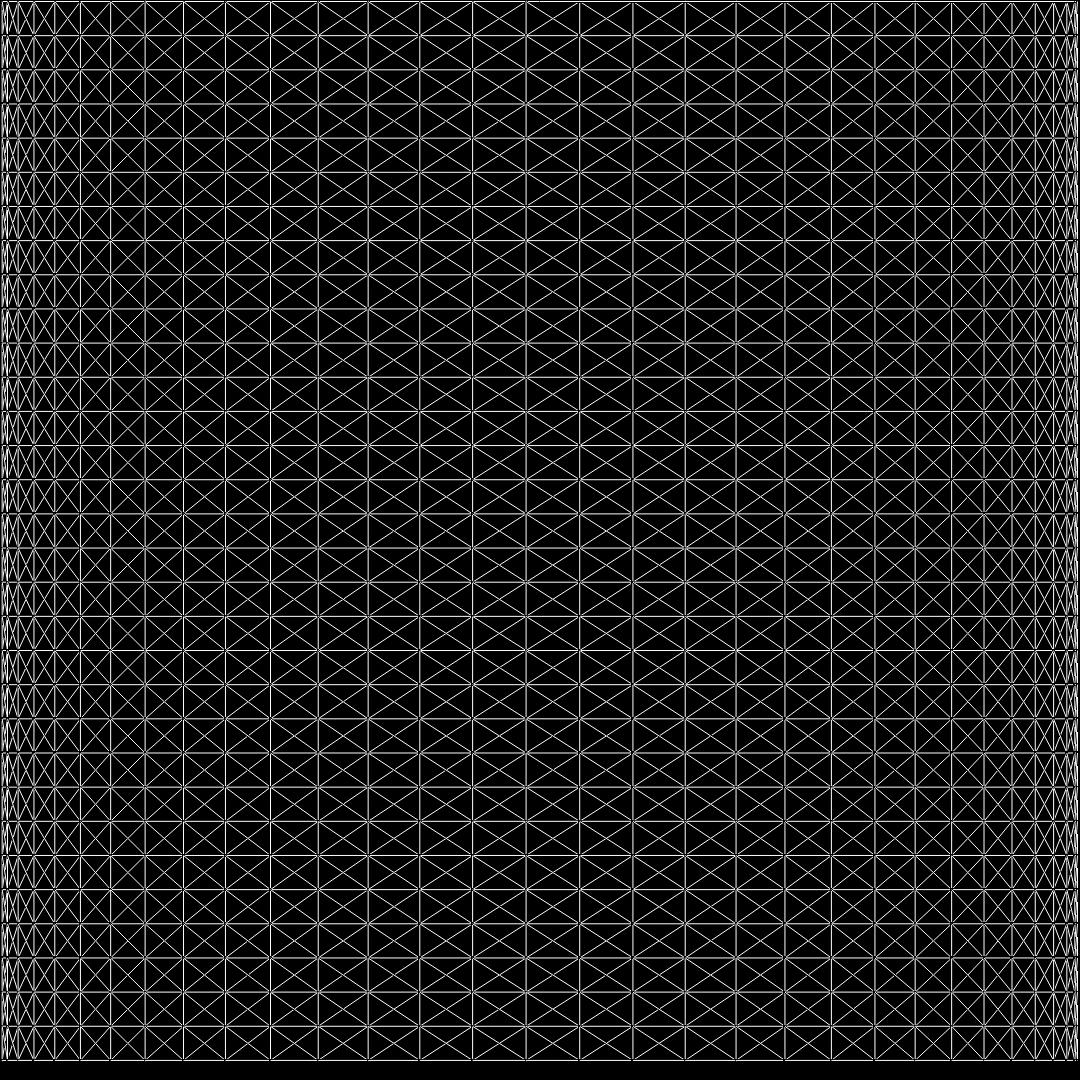
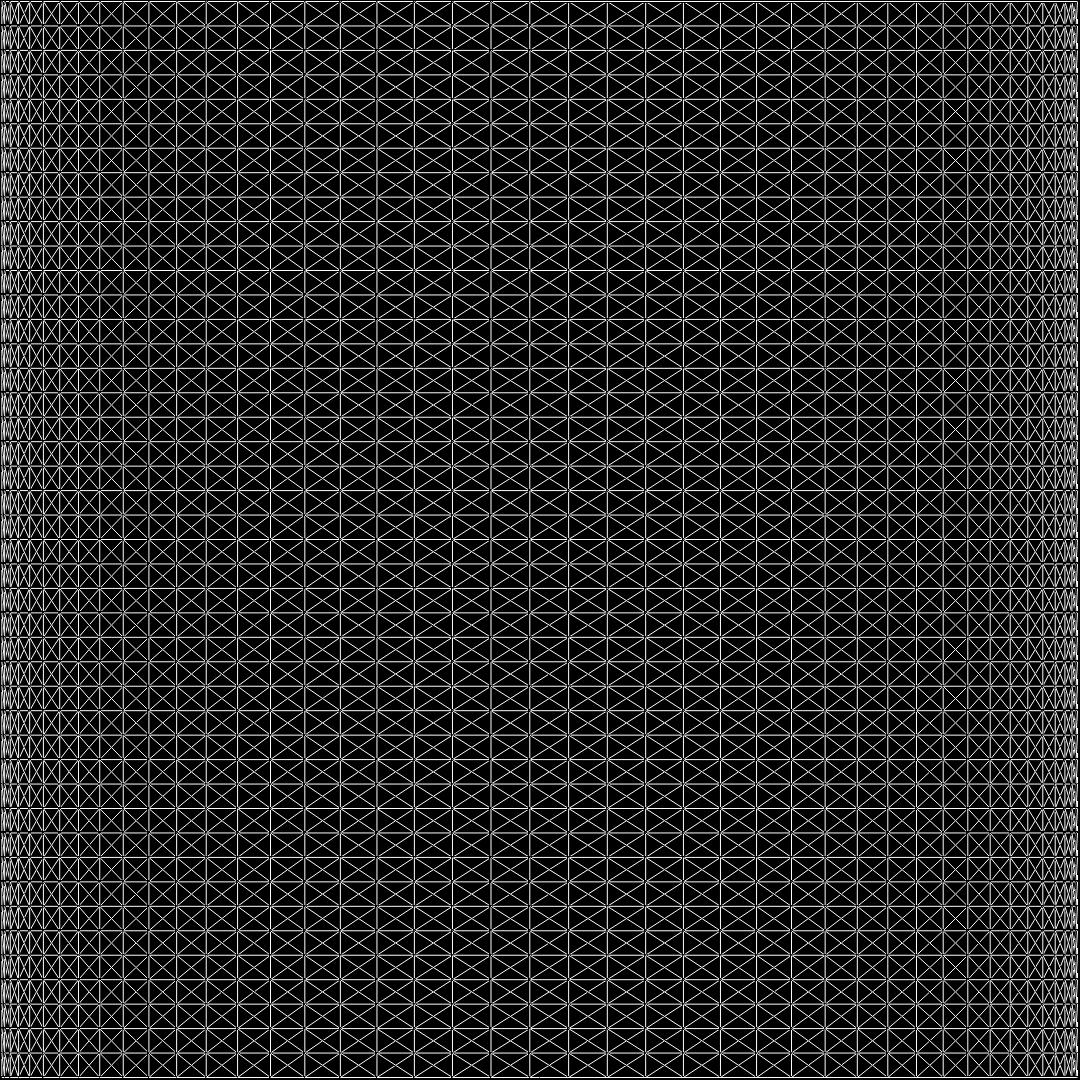
spheres are mostly in

diff --git a/a2/Sphere.py b/a2/Sphere.py
@@ -1,0 +1,105 @@
+from Mesh import *
+from math import *
+
+class Sphere:
+
+    def __init__(self):
+        pass
+
+    def build_polygon_mesh(self):
+        mesh = self.build_triangle_mesh(1)
+        return mesh
+
+    def build_triangle_mesh(self, resolution):
+
+        w = 8
+        h = 8
+        my_res = (2 * w) + (2 * w * (h - 2))
+
+        while my_res < resolution:
+            w += 1
+            my_res = (2 * w) + (2 * w * (h - 2))
+            if my_res < resolution:
+                h += 1
+                my_res = (2 * w) + (2 * w * (h - 2))
+
+        # scaling function
+
+        mesh = Mesh()
+
+        v_dict = {}
+        e_dict = {} 
+        # TODO: these dictionaries might be redudant here
+
+        # center vertices
+        v_bottom = (0.0, -1.0, 0.0)
+        v_top = (0.0, 1.0, 0.0)
+
+        for height in range(0, h):
+            for around in range(0, w): # points around the sphere
+
+                x = sin(pi * (around/w)) * cos(2*pi * (height/h))
+                y = sin(pi * (around/w)) * sin(2*pi * (height/h))
+                z = cos(pi * (around/w))
+
+                x_hor = sin(pi * ((around + 1)/w)) * cos(2*pi * (height/h))
+                x_ver = sin(pi * (around/w)) * cos(2*pi * ((height+1)/h))
+                x_diag = sin(pi * ((around + 1)/w)) * cos(2*pi * ((height+1)/h))
+                y_hor = sin(pi * ((around+1)/w)) * sin(2*pi * (height/h))
+                y_ver = sin(pi * (around/w)) * sin(2*pi * ((height+1)/h))
+                y_diag = sin(pi * ((around+1)/w)) * sin(2*pi * ((height+1)/h))
+                z_plus1 = cos(pi * ((around + 1)/w))
+
+                coordinates = (x, y, z)
+                vertical    = (x_ver, y_ver, z)
+                horizontal  = (x_hor, y_hor, z_plus1)
+                diagonal    = (x_diag, y_diag, z_plus1)
+
+                if y == -1.0:
+                    coordinates = v_bottom
+
+                    if e_dict.get( (coordinates, vertical) ) == None:
+                        e_dict[ (coordinates, vertical) ] = True
+                        mesh.edges.append( (coordinates, vertical) )
+
+                    if v_dict.get(coordinates) == None:
+                        v_dict[coordinates] = True
+                        mesh.vertices.append(coordinates)
+
+                elif y_ver == 1.0:
+                    vertical = v_top
+
+                    if e_dict.get( (coordinates, vertical) ) == None:
+                        e_dict[ (coordinates, vertical) ] = True
+                        mesh.edges.append( (coordinates, vertical) )
+
+                    if v_dict.get(coordinates) == None:
+                        v_dict[coordinates] = True
+                        mesh.vertices.append(coordinates)
+
+                elif y == 1.0:
+                    coordinates = v_top
+
+                    if v_dict.get(coordinates) == None:
+                        v_dict[coordinates] = True
+                        mesh.vertices.append(coordinates)
+
+                else:
+                    if e_dict.get( (coordinates, vertical) ) == None:
+                        e_dict[ (coordinates, vertical) ] = True
+                        mesh.edges.append( (coordinates, vertical) )
+
+                    if e_dict.get( (coordinates, horizontal) ) == None:
+                        e_dict[ (coordinates, horizontal) ] = True
+                        mesh.edges.append( (coordinates, horizontal) )
+
+                    if e_dict.get( (coordinates, diagonal) ) == None:
+                        e_dict[ (coordinates, diagonal) ] = True
+                        mesh.edges.append( (coordinates, diagonal) )
+
+                    if v_dict.get(coordinates) == None:
+                        v_dict[coordinates] = True
+                        mesh.vertices.append(coordinates)
+
+        return mesh
+

diff --git a/a1/Sphere.py b/a1/Sphere.py
@@ -1,0 +1,103 @@
+from Mesh import *
+from math import *
+
+class Sphere:
+
+    def __init__(self):
+        self.mesh = None
+
+    def build_polygon_mesh(self):
+        self.build_triangle_mesh(1)
+
+    def build_triangle_mesh(self, resolution):
+
+        w = 8
+        h = 8
+        my_res = (2 * w) + (2 * w * (h - 2))
+
+        while my_res < resolution:
+            w += 1
+            my_res = (2 * w) + (2 * w * (h - 2))
+            if my_res < resolution:
+                h += 1
+                my_res = (2 * w) + (2 * w * (h - 2))
+
+        # scaling function
+
+        m = Mesh()
+
+        v_dict = {}
+        e_dict = {}
+
+        # center vertices
+        v_bottom = (0.0, -1.0, 0.0)
+        v_top = (0.0, 1.0, 0.0)
+
+        for height in range(0, h):
+            for around in range(0, w): # points around the sphere
+
+                x = sin(pi * (around/w)) * cos(2*pi * (height/h))
+                y = sin(pi * (around/w)) * sin(2*pi * (height/h))
+                z = cos(pi * (around/w))
+
+                x_hor = sin(pi * ((around + 1)/w)) * cos(2*pi * (height/h))
+                x_ver = sin(pi * (around/w)) * cos(2*pi * ((height+1)/h))
+                x_diag = sin(pi * ((around + 1)/w)) * cos(2*pi * ((height+1)/h))
+                y_hor = sin(pi * ((around+1)/w)) * sin(2*pi * (height/h))
+                y_ver = sin(pi * (around/w)) * sin(2*pi * ((height+1)/h))
+                y_diag = sin(pi * ((around+1)/w)) * sin(2*pi * ((height+1)/h))
+                z_plus1 = cos(pi * ((around + 1)/w))
+
+                coordinates = (x, y, z)
+                vertical    = (x_ver, y_ver, z)
+                horizontal  = (x_hor, y_hor, z_plus1)
+                diagonal    = (x_diag, y_diag, z_plus1)
+
+                if y == -1.0:
+                    coordinates = v_bottom
+
+                    if e_dict.get( (coordinates, vertical) ) == None:
+                        e_dict[ (coordinates, vertical) ] = True
+                        m.edges.append( (coordinates, vertical) )
+
+                    if v_dict.get(coordinates) == None:
+                        v_dict[coordinates] = True
+                        m.vertices.append(coordinates)
+
+                elif y_ver == 1.0:
+                    vertical = v_top
+
+                    if e_dict.get( (coordinates, vertical) ) == None:
+                        e_dict[ (coordinates, vertical) ] = True
+                        m.edges.append( (coordinates, vertical) )
+
+                    if v_dict.get(coordinates) == None:
+                        v_dict[coordinates] = True
+                        m.vertices.append(coordinates)
+
+                elif y == 1.0:
+                    coordinates = v_top
+
+                    if v_dict.get(coordinates) == None:
+                        v_dict[coordinates] = True
+                        m.vertices.append(coordinates)
+
+                else:
+                    if e_dict.get( (coordinates, vertical) ) == None:
+                        e_dict[ (coordinates, vertical) ] = True
+                        m.edges.append( (coordinates, vertical) )
+
+                    if e_dict.get( (coordinates, horizontal) ) == None:
+                        e_dict[ (coordinates, horizontal) ] = True
+                        m.edges.append( (coordinates, horizontal) )
+
+                    if e_dict.get( (coordinates, diagonal) ) == None:
+                        e_dict[ (coordinates, diagonal) ] = True
+                        m.edges.append( (coordinates, diagonal) )
+
+                    if v_dict.get(coordinates) == None:
+                        v_dict[coordinates] = True
+                        m.vertices.append(coordinates)
+
+        self.mesh = m
+

diff --git a/a2/main.py b/a2/main.py
@@ -1,5 +1,6 @@
 from Cube import *
 from Cylinder import *
+from Sphere import *
 from Mesh import *
 from Scene import *
 from ViewSystem import *
@@ -20,15 +21,15 @@ def main():
     cylinderFactory = Cylinder()
     cylinderFactory.build_triangle_mesh(1350)
 
-    mesh = cylinderFactory.mesh
-    mesh.add_transformation(TransformationFactory.scale(4.0,4.0,4.0))
-    mesh.add_transformation(TransformationFactory.x_rotation(30))
-    mesh.add_transformation(TransformationFactory.z_rotation(-25))
+    cylndr = cylinderFactory.mesh
+    cylndr.add_transformation(TransformationFactory.scale(4.0,4.0,4.0))
+    cylndr.add_transformation(TransformationFactory.x_rotation(30))
+    cylndr.add_transformation(TransformationFactory.z_rotation(-25))
 
 
-    myScene = Scene()
-    myScene.add_mesh(mesh, (0.0, 0.0, -3.0))
-    myScene.add_mesh(cubeMesh, (-2.0, -2.0, 1.0))
+    scene0 = Scene()
+    scene0.add_mesh(cylndr, (0.0, 0.0, -3.0))
+    scene0.add_mesh(cubeMesh, (-2.0, -2.0, 1.0))
 
     # cubeFactory.build_triangle_mesh(300)
     # floor_mesh = cubeFactory.mesh
@@ -36,10 +37,13 @@ def main():
 
     # myScene.add_mesh(floor_mesh, (0.0, 0.0, -1.0))
 
-    camera = ViewSystem(myScene)
+    camera = ViewSystem(scene0)
     camera.build_camera(0.0, 20.0, 150.0)
     camera.build_view_volume(23.0, 200.0, 5.0)
     camera.render_scene(1080, "renders/scene.jpg")
+    camera.scene.reset()
+    
+    sphereFactory = Sphere()
 
 
 

diff --git a/a2/Scene.py b/a2/Scene.py
@@ -3,11 +3,16 @@ import TransformationFactory
 
 class Scene:
     def __init__(self):
-        self.models = []
-        self.coordinates = [] # (x,y,z) tuples, indexes matching the above meshes
+        self.models = None
+        self.coordinates = None
+        self.reset()
 
     def add_mesh(self, mesh, pos):
         mesh.add_transformation(TransformationFactory.translation(float(pos[0]), float(pos[1]), float(pos[2])))
         mesh.apply_transformations()
         self.models.append(mesh)
         self.coordinates.append(pos)
+
+    def reset(self):
+        self.models = []
+        self.coordinates = [] # (x,y,z) tuples, indexes matching the above meshes

diff --git a/a1/main.py b/a1/main.py
@@ -2,6 +2,7 @@ from Cube import *
 from Cylinder import *
 from Mesh import *
 from Renderer import *
+from Sphere import *
 
 
 def main():
@@ -22,6 +23,14 @@ def main():
     triangleCylinder = Cylinder()
     triangleCylinder.build_triangle_mesh(4000)
     randy.render(triangleCylinder.mesh, 1080, "HDcylinder.jpg")
+
+    polySphere = Sphere()
+    polySphere.build_polygon_mesh()
+    randy.render(polySphere.mesh, 512, "polySphere")
+
+    triangleSphere = Sphere()
+    triangleSphere.build_triangle_mesh(4000)
+    randy.render(triangleSphere.mesh, 1080, "HDSphere")
 
 
 if __name__ == "__main__":
